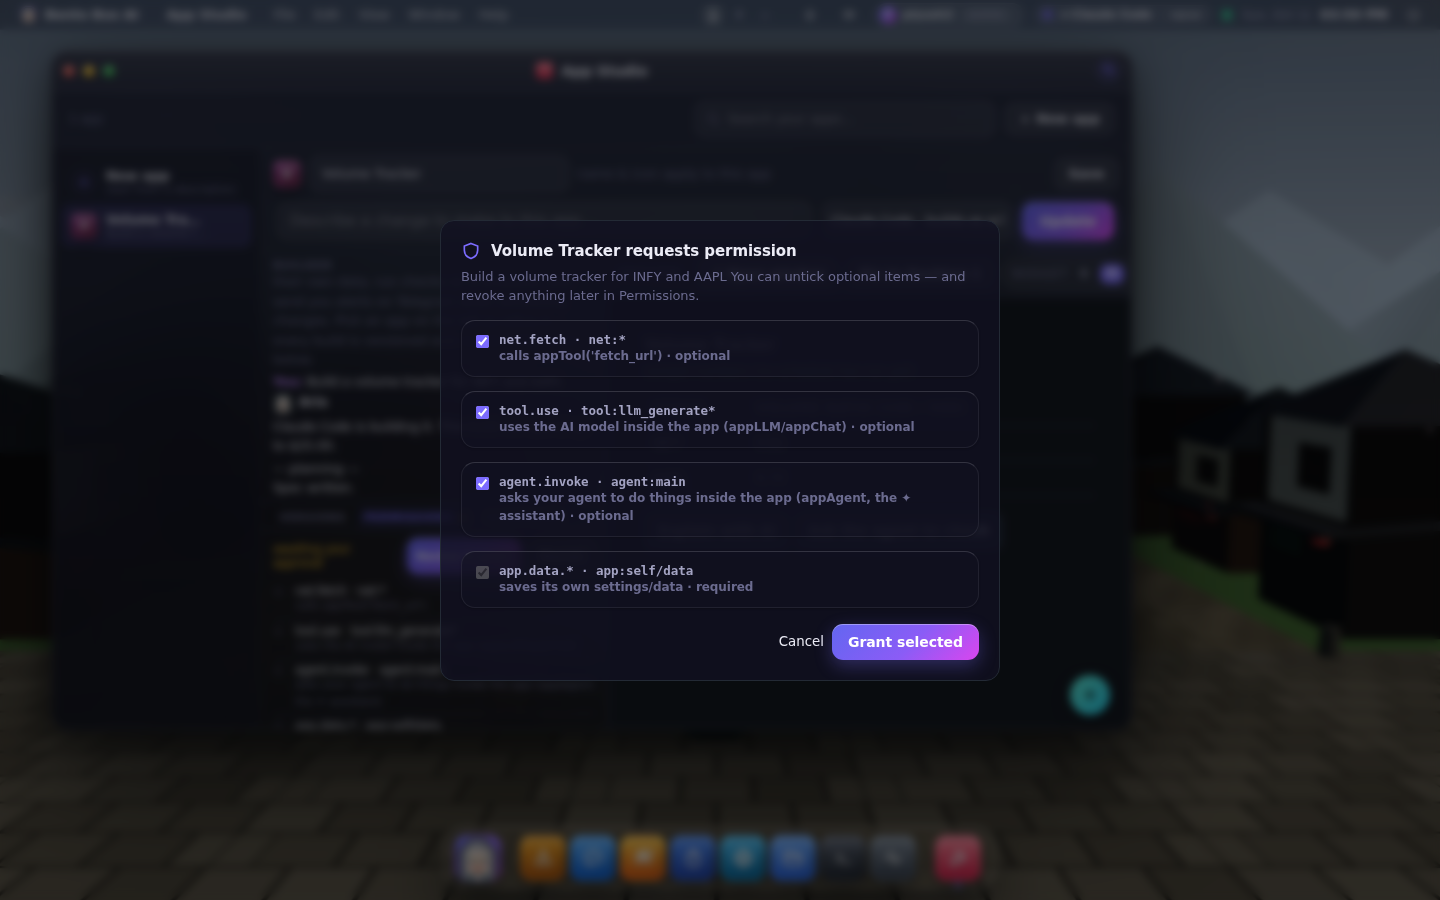
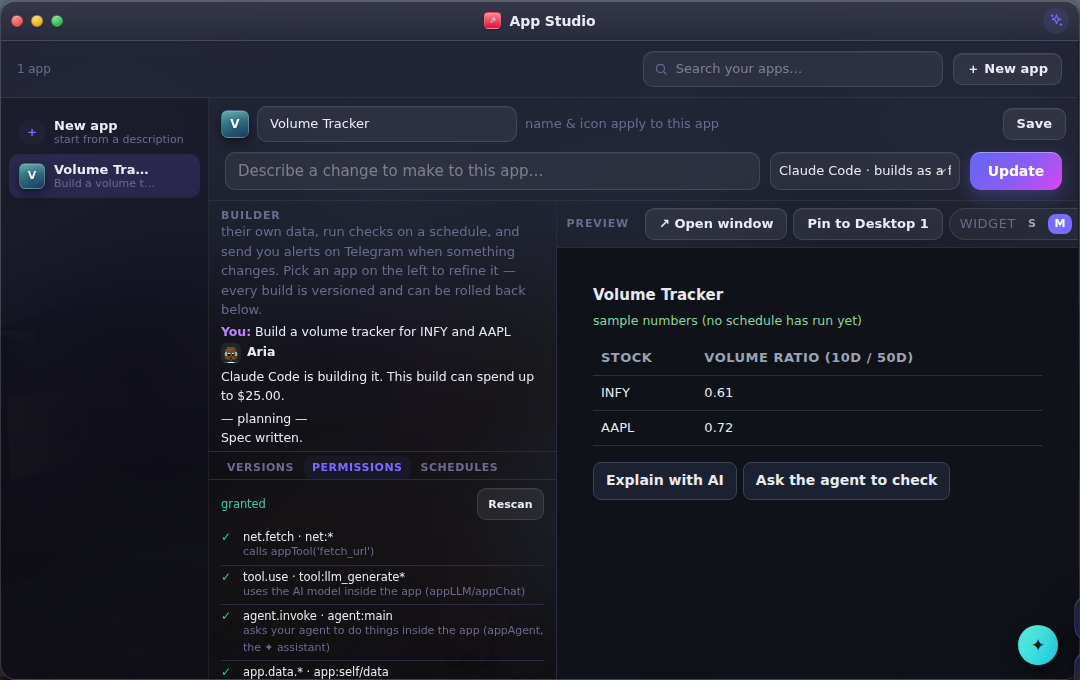
Use the two new screenshots in the guides
test_no_screenshot_is_orphaned failed on CI: world-build-at-work.png and
studio-agent-face.png were committed for the PR and referenced by no doc. The
World one now illustrates "your agent is at work" in docs/world.md, and the
Studio one (retaken without the consent dialog over it) the Builder in
docs/building-apps.md.

Claude-Session: https://claude.ai/code/session_011P5F77RLt4A1CayU6BxNWt

diff --git a/docs/building-apps.md b/docs/building-apps.md
@@ -35,6 +35,11 @@ A build is not a spinner. The Builder panel shows, as it happens:
 - **a heartbeat between calls** (`Bash · npm test · 2m 10s · $1.20`), so the gaps are accounted
   for too.
 
+Your agent's messages carry its face, as they do in Chat, and a build is your agent at work in
+the [World](world.md) and the Office while it runs.
+
+![App Studio's Builder: Aria's face beside the builder's message, "Claude Code is building it", and the Volume Tracker in the preview](screenshots/studio-agent-face.png)
+
 Cancel any time with the same button that started the build. If you close and reopen the window
 mid-build, the Studio re-attaches to the run that is still going.
 

diff --git a/docs/world.md b/docs/world.md
@@ -80,6 +80,8 @@ builds an app in App Studio. A build counts like any other task: your agent goes
 when it starts and is proud of the app when it is done. Stopping a build yourself is not
 counted as a failure.
 
+![The canal during an App Studio build: Aria out on the water in the work boat, at work, while the team waits on the bank](screenshots/world-build-at-work.png)
+
 ### What they wear
 
 Each setting dresses the team: yukata by the canal, spacesuits on the moon base, overalls
